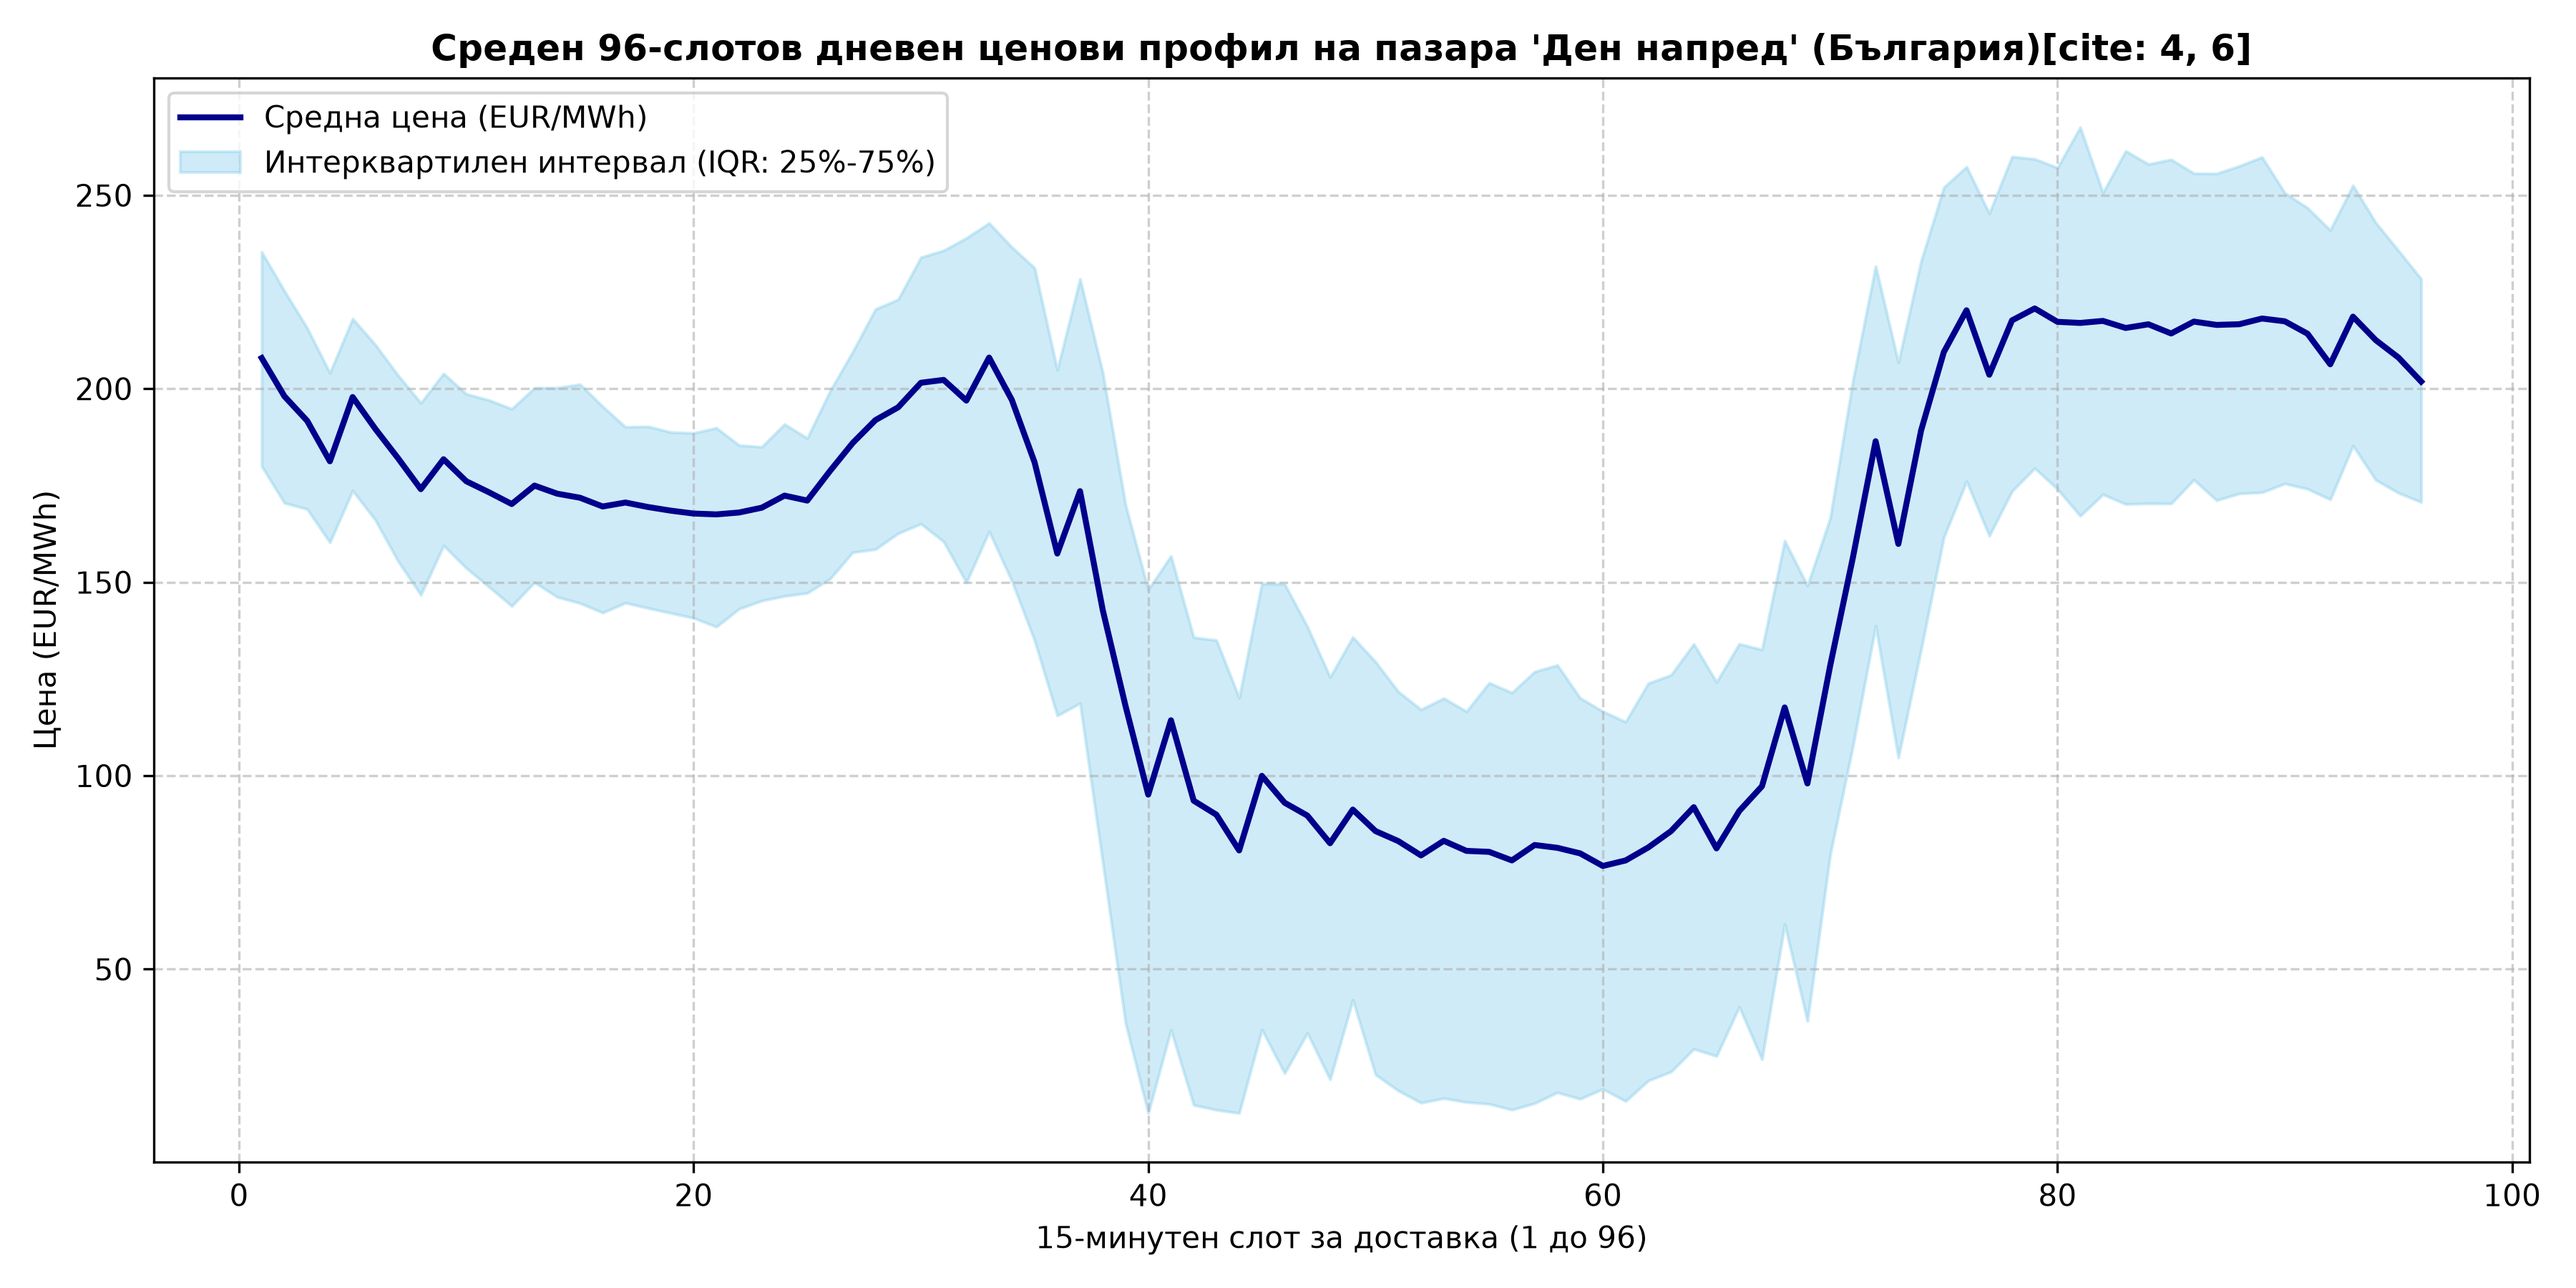
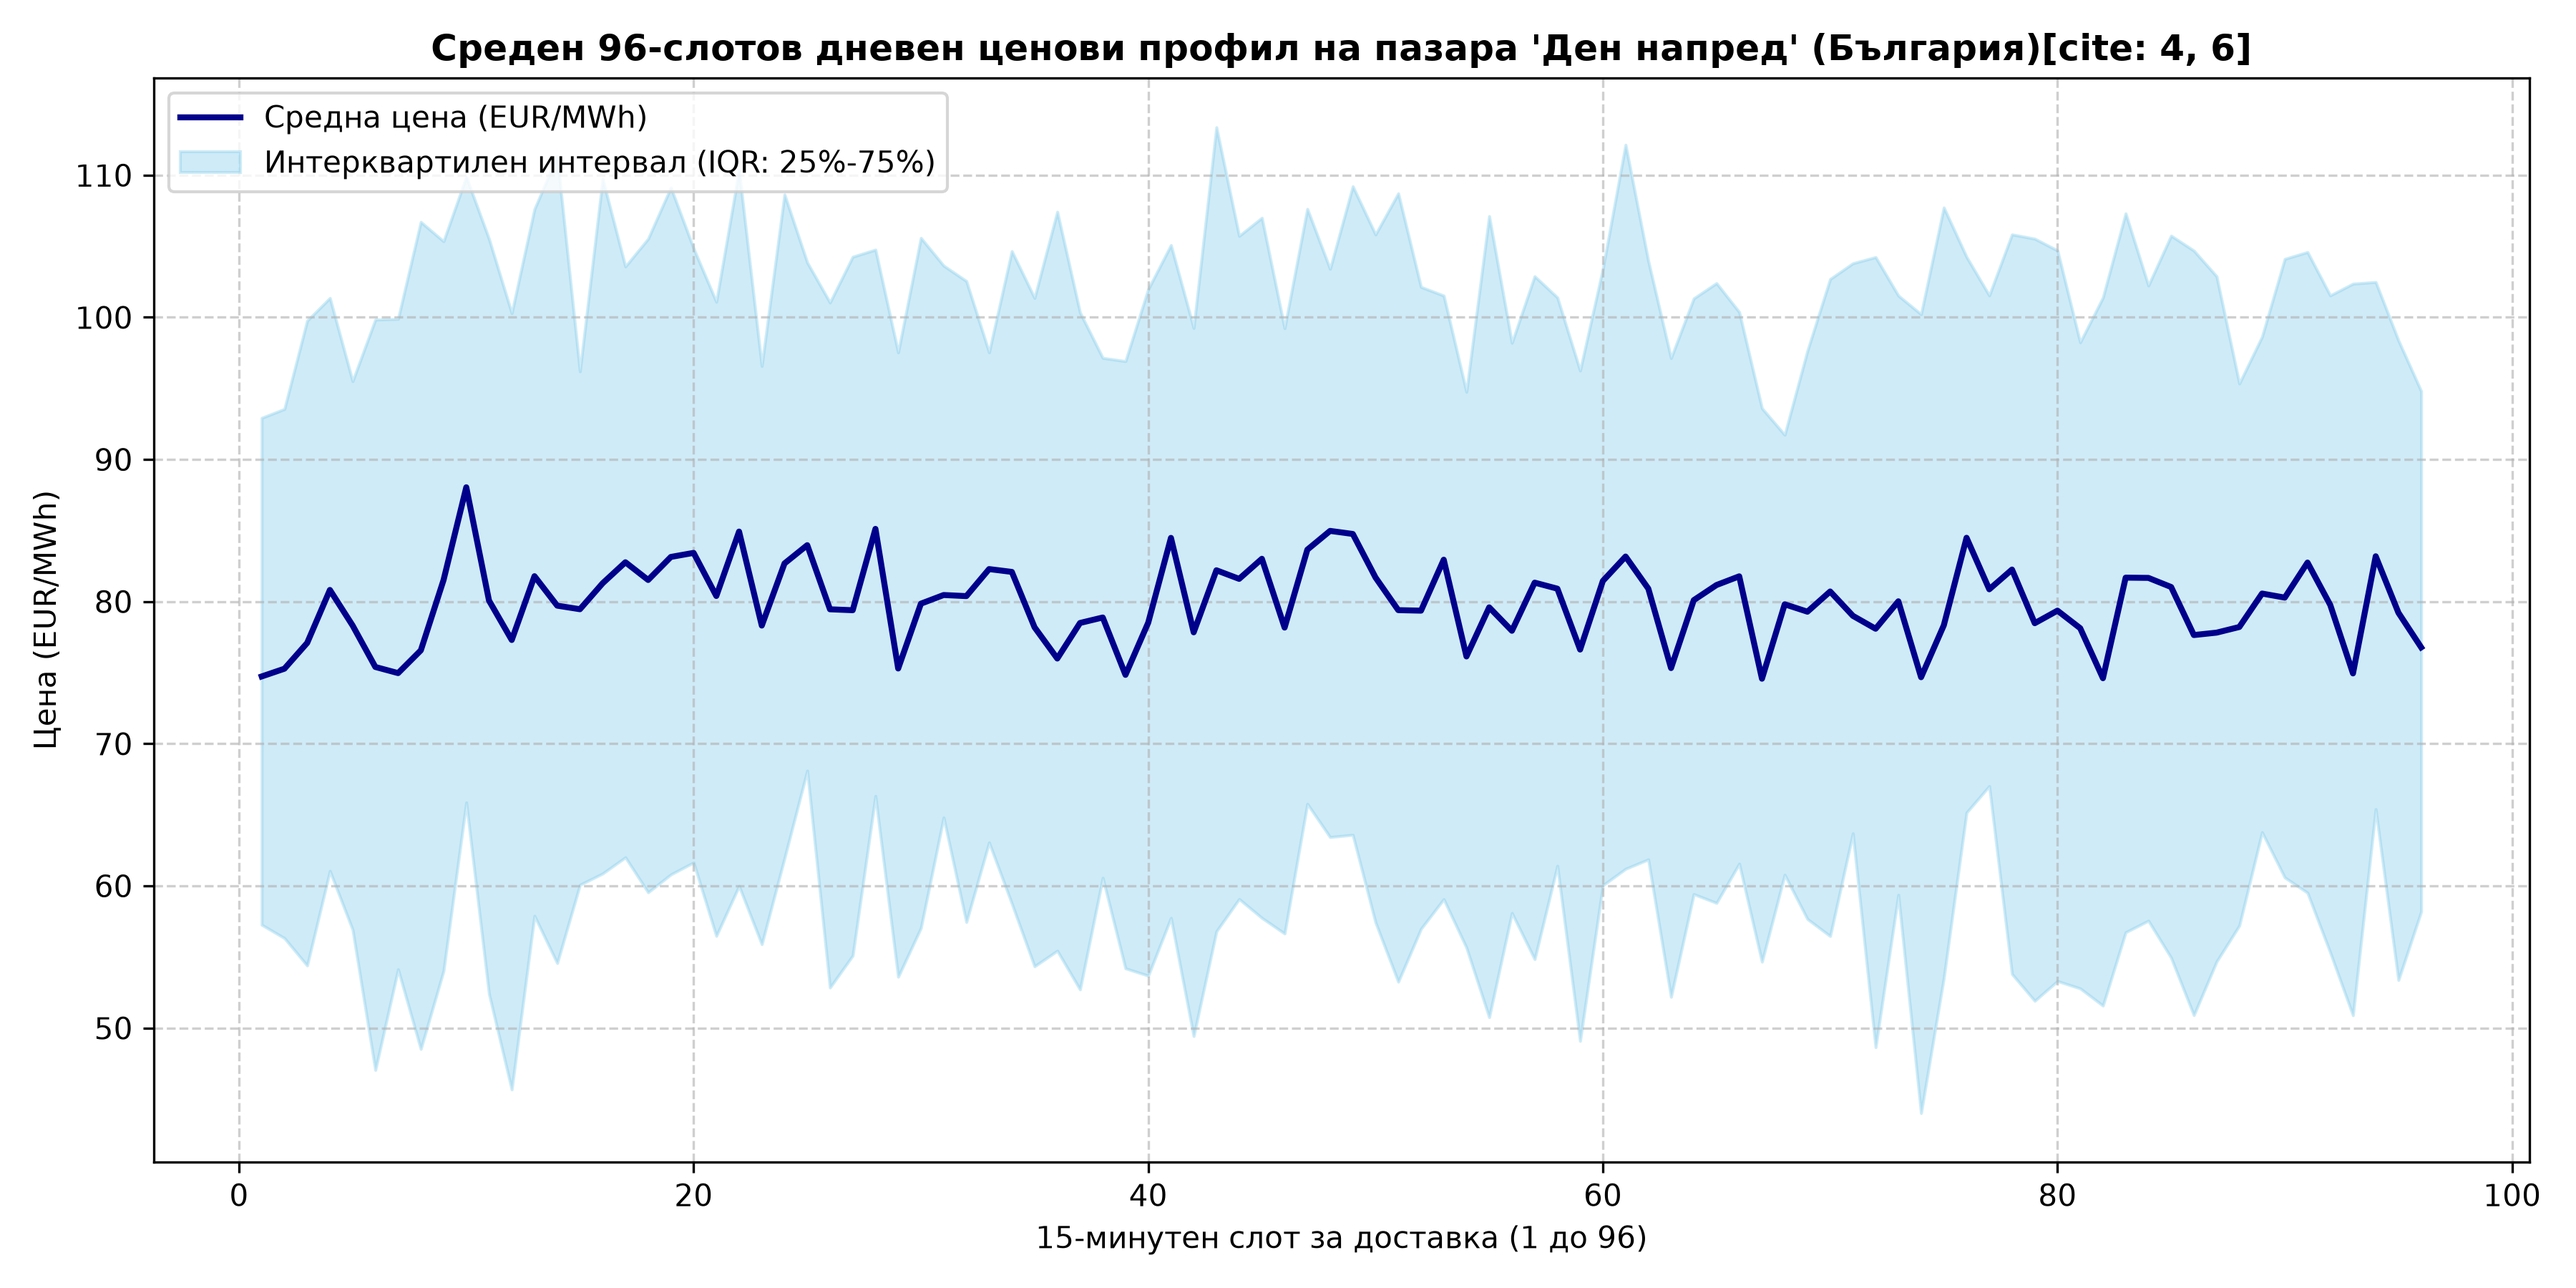
edit

diff --git a/main.py b/main.py
@@ -10,8 +10,8 @@ from entsoe import EntsoePandasClient
 # Забележка: API ключът се взима от системните променливи за сигурност
 api_key = os.environ.get("ENTSOE_API_KEY", "ce4d798d-e828-425e-9529-1570fb8aad77")
 
-start = pd.Timestamp("2026-07-01 00:00", tz="Europe/Brussels")
-end = pd.Timestamp("2026-11-01 00:00", tz="Europe/Brussels")
+start = pd.Timestamp("2027-01-01 00:00", tz="Europe/Brussels")
+end = pd.Timestamp("2027-05-01 00:00", tz="Europe/Brussels")
 
 print("Изтегляне на данни за ден напред от ENTSO-E за България (BG)...")
 try:

diff --git a/README.md b/README.md
@@ -1,0 +1,18 @@
+# Electrohold Power Market Analyst
+
+## Overview
+This repository contains the solution for the Power Market Analyst recruitment assignment.
+
+- **Task 1:** Automated download of IBEX/ENTSO-E Day-Ahead prices, validation, market time-series analysis, and profile visualization.
+- **Task 2:** Dynamic Excel-based price scale transformation without VBA/macros.
+
+## How to Run Task 1
+1. Install dependencies:
+   ```bash
+   pip install -r requirements.txt
+   
+2. Set ENTSO-E API Key (optional):
+export ENTSO_API_KEY="ce4d798d-e828-425e-9529-1570fb8aad77"
+
+3. Execute the analysis script:
+python main.py
